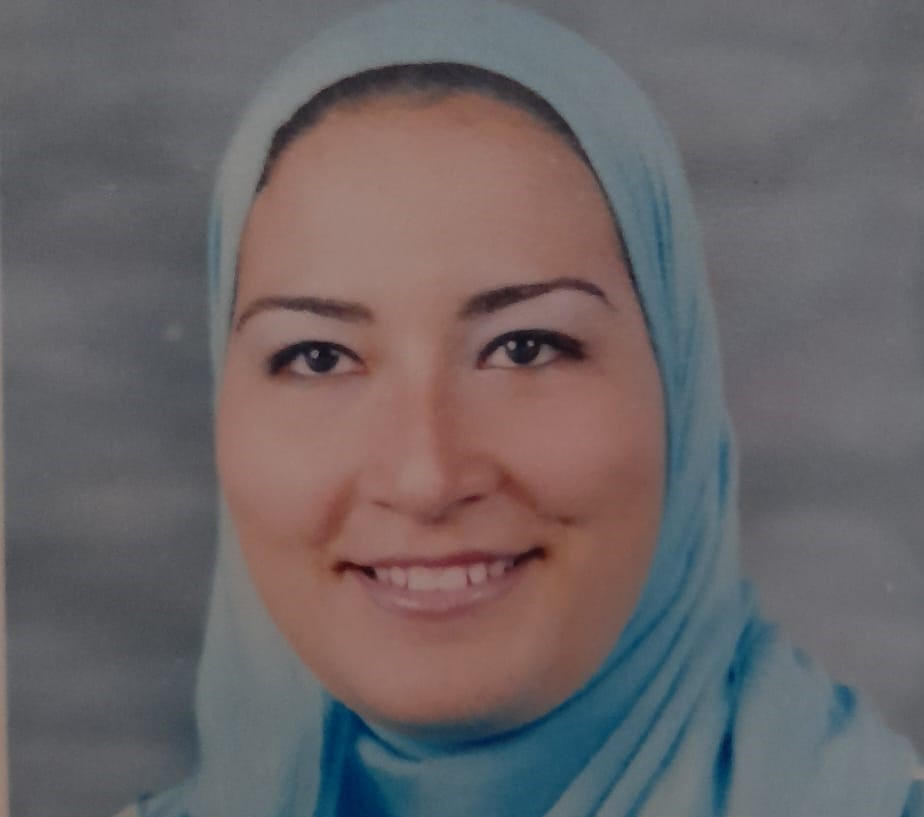
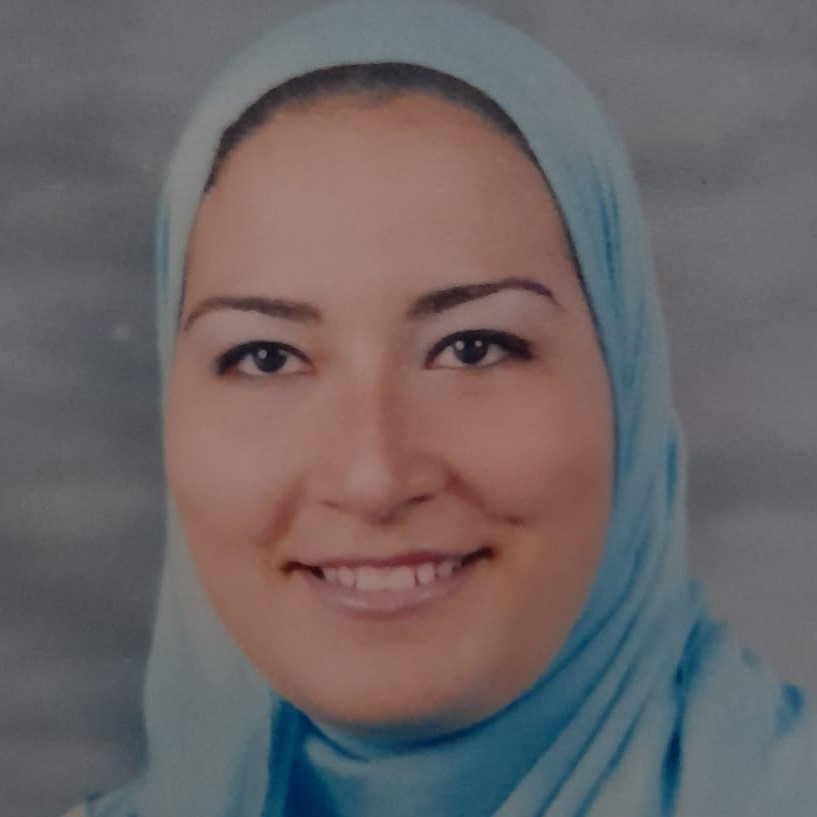
Add files via upload

diff --git a/index.html b/index.html
@@ -225,7 +225,7 @@
                 <h4>Dean of the Faculty of Agricuture, Alexandria University</h4>
                 <p>
                   <i class="bx bxs-quote-alt-left quote-icon-left"></i>
-                  Congratulations to our students and their families, and all thanks to the distinguished professors. The Genetics department has always been one of the highest ranked departments in the college.
+                  Congratulations to our students and their families, and all thanks to the distinguished professors and staff members. The Genetics department has always been one of the highest ranked departments in the college.
                   Be proud to belong to this place .                  <i class="bx bxs-quote-alt-right quote-icon-right"></i>
                 </p>
               </div>
@@ -245,8 +245,8 @@
 
             <div class="swiper-slide">
               <div class="testimonial-item">
-                <img src="img/" class="testimonial-img " alt="">
-                <h3>Asst.Prof Dr Sarah Aggag	</h3>
+                <img src="img 2/dr sara.jpeg" class="testimonial-img " alt="">
+                <h3>Asst.Prof Dr.Sarah Aggag	</h3>
                 <h4>Head of Genetics Department at Faculty of Agricuture, Alexandria University </h4>
                 <p>
                   <i class="bx bxs-quote-alt-left quote-icon-left"></i>
@@ -258,7 +258,7 @@
 
             <div class="swiper-slide">
               <div class="testimonial-item">
-                <img src="img/dr mostafa.jpg" class="testimonial-img" alt="">
+                <img src="img 2/dr mostafa.jpg" class="testimonial-img" alt="">
                 <h3>Dr.Moustafa Eldakak	</h3>
                 <h4>General coordinator for Graduation Project</h4>
                 <p>
@@ -883,6 +883,35 @@
                 <div class="col-lg-4 col-md-4 col-sm-12 portfolio-item ">
                   <div class="inner-portfolio">
                     <div class="card" style="width: ;">
+                      <img src="img/PLANT SALT.png" class="card-img-top w-100" alt="...">
+                      <div class="card-body d-flex justify-content-between" style="background-color: #e5f9d0;">
+                       <div>
+                        <h6> Halophytes in an Ever Evolving planet
+                        </h6>
+                         <p>supervised by /
+                          <br>
+                          <span>Dr.Rania Belal</span>
+                         </p>
+                          <a href="11.html" class="details-link" title="More Details">
+                            <button type="button" class="btn btn-primary btn-sm">View Details</button>
+      
+      
+                        </a>
+      
+      
+      
+                       </div>
+                       <div>
+                        <a href="portfolio-details.html" class="btn bg-none"><div class="d-flex justify-content-center text-align-center route2 rounded-circle"><i class="fa-solid fa-plus fa-lg icon-card"></i></div></a>
+          
+                       </div>
+                      </div>
+                    </div>
+                  </div>
+                  </div>  
+                <div class="col-lg-4 col-md-4 col-sm-12 portfolio-item ">
+                  <div class="inner-portfolio">
+                    <div class="card" style="width: ;">
                       <img src="img/BAC SALT 2.png" class="card-img-top w-100" alt="...">
                       <div class="card-body d-flex justify-content-between" style="background-color:#ddd5c1;">
                        <div>
@@ -1041,31 +1070,30 @@
               <div class="inner-portfolio">
                 <div class="card" style="width: ;">
                   <img src="img/DROSF.png" class="card-img-top w-100" alt="...">
-                  <div class="card-body d-flex justify-content-between" style="background-color:#ffb357;">
+                  <div class="card-body d-flex justify-content-between" style="background-color: #ffecd4;">
                    <div>
-                    <h6>The use of Drosophila species as a bio indicator of air 
-                      pollution</h6>
+                    <h6>The effect of polluted water on the Drosophila melanogaster and it's role as bioinducator </h6>
                      <p>supervised by /
                       <br>
-                      <span>Prof. Yahia Mustafa Abd El-Samea</span>
+                      <span>Prof Dr.Yehia</span>
                      </p>
-                      <a href="12.html" class="details-link" title="More Details">
+                      <a href="7.html" class="details-link" title="More Details">
                         <button type="button" class="btn btn-primary btn-sm">View Details</button>
-          
-          
+  
+  
                     </a>
-          
-          
-          
+  
+  
+  
                    </div>
                    <div>
                     <a href="portfolio-details.html" class="btn bg-none"><div class="d-flex justify-content-center text-align-center route2 rounded-circle"><i class="fa-solid fa-plus fa-lg icon-card"></i></div></a>
-          
+      
                    </div>
                   </div>
                 </div>
               </div>
-              </div>   
+              </div> 
             <div class="col-lg-4 col-md-4 col-sm-12 portfolio-item  ">
               <div class="inner-portfolio">
                 <div class="card" style="width: ;">
@@ -1153,7 +1181,7 @@
  
        <!-- ======= Gallery Section ======= -->
 
-    <div class="section" id="Gallerychat">
+    <div class="section py-5" id="Gallerychat">
          
 
       <div class="section-title">
@@ -1167,96 +1195,73 @@
       </div>
 
         <div class="image-grid  d-none">
-        <div class="image-item">
-            <img src="gallery/gallery-2.jpg" alt="Image 1">
-            <div class="overlay">
-              <ul>
-              <li>Amr khaled</li>
-              <li>Lonma dokki</li>
-              <li>sara khaled</li>
-              <li>Amr moaz</li>
-              <li>3ssam sasa</li>
-
-              </ul>
-            </div>
+          <div class="image-item">
+            <img src="https://via.placeholder.com/300" alt="Image 2">
+           
         </div>
+
         <div class="image-item">
             <img src="https://via.placeholder.com/300" alt="Image 2">
-            <div class="overlay">
-                <div class="overlay-text">Overlay Text 2</div>
-            </div>
+           
         </div>
         <div class="image-item">
             <img src="https://via.placeholder.com/300" alt="Image 3">
-            <div class="overlay">
-                <div class="overlay-text">Overlay Text 3</div>
-            </div>
+           
         </div>
         <div class="image-item">
-            <img src="https://via.placeholder.com/300" alt="Image 4">
-            <div class="overlay">
-                <div class="overlay-text">Overlay Text 4</div>
-            </div>
-        </div>
-        <div class="image-item">
-          <img src="gallery/gallery-3.jpg" alt="Image 1">
-          <div class="overlay">
-            <div class="button-container">
-                <a href="https://www.example.com" class="responsive-button">Go to Example</a>
-              </div>
-          </div>
+          <img src="https://via.placeholder.com/300" alt="Image 2">
       </div>
       <div class="image-item">
-          <img src="images/12.jpeg" alt="Image 2">
-          <div class="overlay">
-              <div class="overlay-text">Overlay Text 2</div>
-          </div>
-      </div>
-      <div class="image-item">
-          <img src="https://via.placeholder.com/300" alt="Image 3">
-          <div class="overlay">
-              <div class="overlay-text">Overlay Text 3</div>
-          </div>
-      </div>
-      <div class="image-item">
-          <img src="assets/img/1.jpg" alt="Image 4">
-          <div class="overlay">
-              <div class="overlay-text">Overlay Text 4</div>
-          </div>
-      </div>
-      <div class="image-item">
-        <img src="assets/img/MixCollage-17-May-2024-11-52-AM-6653.jpg" alt="Image 1">
-        <div class="overlay">
-          <div class="button-container">
-              <a href="https://www.example.com" class="responsive-button">Go to Example</a>
-            </div>
-        </div>
-    </div>
-    <div class="image-item">
         <img src="https://via.placeholder.com/300" alt="Image 2">
-        <div class="overlay">
-            <div class="overlay-text">Overlay Text 2</div>
-        </div>
     </div>
+      
     <div class="image-item">
-        <img src="https://via.placeholder.com/300" alt="Image 3">
-        <div class="overlay">
-            <div class="overlay-text">Overlay Text 3</div>
-        </div>
-    </div>
-    <div class="image-item">
-        <img src="https://via.placeholder.com/300" alt="Image 4">
-        <div class="overlay">
-            <div class="overlay-text">Overlay Text 4</div>
-        </div>
-    </div>
-        </div>
+      <img src="https://via.placeholder.com/300" alt="Image 2">
+  </div>
+   
+  <div class="image-item">
+    <img src="https://via.placeholder.com/300" alt="Image 2">
+</div>
+<div class="image-item">
+  <img src="https://via.placeholder.com/300" alt="Image 2">
+</div>
+
+<div class="image-item">
+  <img src="https://via.placeholder.com/300" alt="Image 2">
+</div>
+
+<div class="image-item">
+  <img src="https://via.placeholder.com/300" alt="Image 2">
+</div>
+<div class="image-item">
+  <img src="https://via.placeholder.com/300" alt="Image 2">
+</div>
+<div class="image-item">
+  <img src="https://via.placeholder.com/300" alt="Image 2">
+</div>
+<div class="image-item">
+  <img src="https://via.placeholder.com/300" alt="Image 2">
+</div>
+<div class="image-item">
+  <img src="https://via.placeholder.com/300" alt="Image 2">
+</div>
+<div class="image-item">
+  <img src="https://via.placeholder.com/300" alt="Image 2">
+</div>
+<div class="image-item">
+  <img src="https://via.placeholder.com/300" alt="Image 2">
+</div>
+
+
+        
       
         
   
        
       </div>
     </div>
+  </div>
+
 
             <!-- ======= Powerpoint Section ======= -->
 
